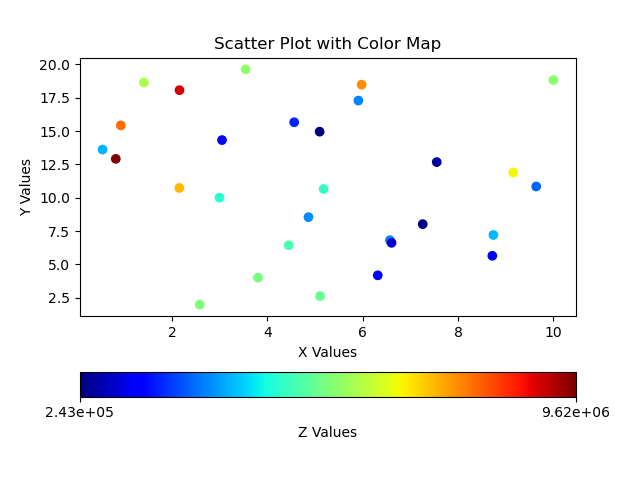
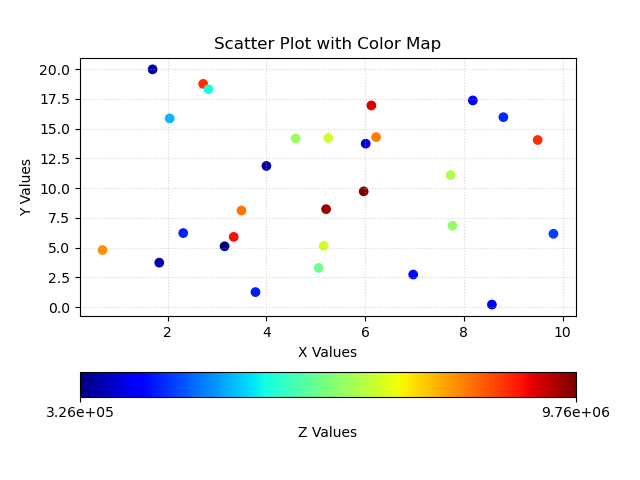
Update with histogram plot
to learn the difference between frequency and density in histogram option

diff --git a/histogram.py b/histogram.py
@@ -1,0 +1,28 @@
+import pandas as pd
+import matplotlib.pyplot as plt
+
+# Load data from Excel file
+file_path = 'data.xlsx'
+df = pd.read_excel(file_path)
+
+# Extract the 'x' values from the DataFrame
+x_values = df['his']
+
+# Create a histogram
+plt.hist(x_values, bins=30, color='blue', edgecolor='black', alpha=0.7)
+#plt.hist(x_values, bins=30, density=True, color='blue', edgecolor='black', alpha=0.7)
+
+# Set axis labels and title
+plt.xlabel('X Values')
+plt.ylabel('Frequency')
+plt.title('Histogram of X Values')
+
+# Add grid
+plt.grid(True, linestyle='dotted', alpha=0.5)
+
+# Save the plot as histogram.png
+plt.savefig('histogram-frequency.png')
+
+# Show the plot
+plt.show()
+

diff --git a/colorplot.py b/colorplot.py
@@ -31,6 +31,7 @@ cbar.set_ticklabels([f'{min_z:.2e}', f'{max_z:.2e}'])
 plt.xlabel('X Values')
 plt.ylabel('Y Values')
 plt.title('Scatter Plot with Color Map')
+plt.grid(True, linestyle='dotted', alpha=0.5)
 
 # save the plot as scatterplot.png
 plt.savefig('scatterplot.png')
